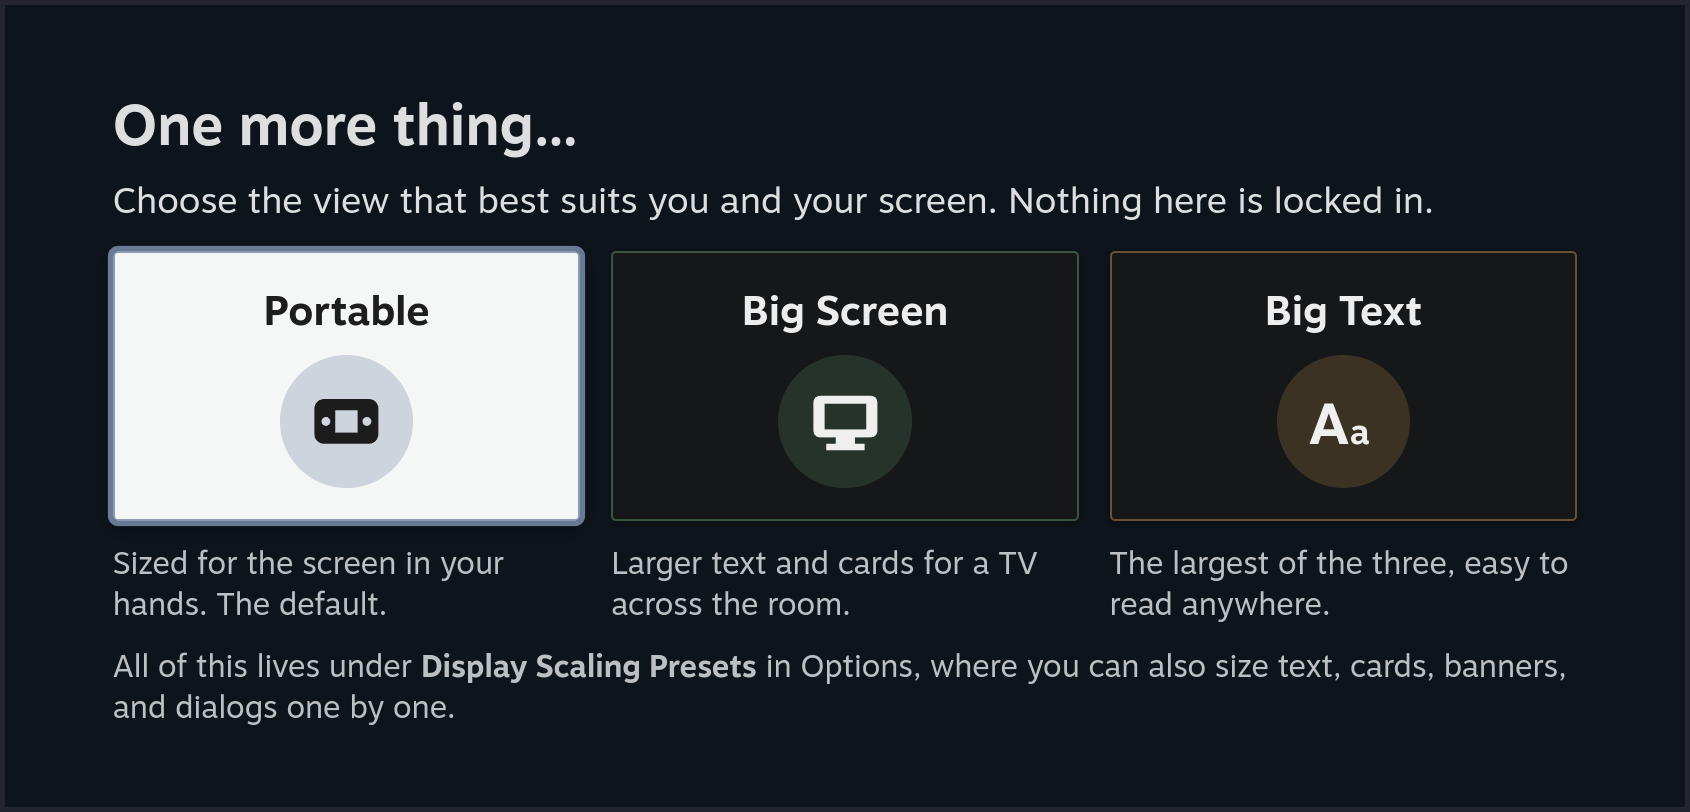
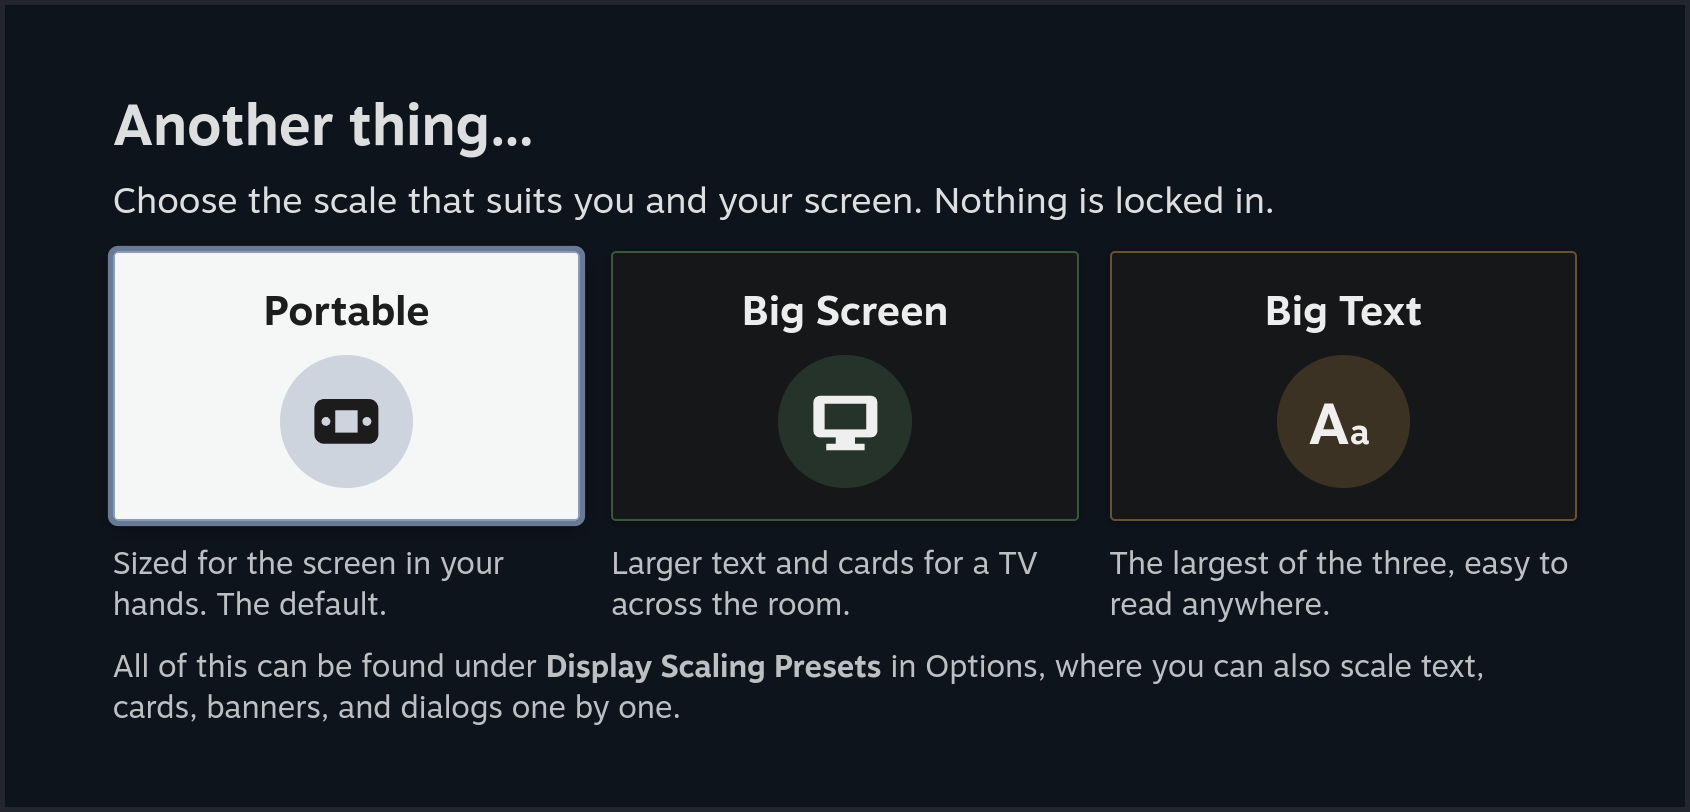
Docs: Add new modal step to getting started / update existing

Changed region(s): [[0.0615, 0.1232, 0.8308, 0.2771], [0.0615, 0.8005, 0.9231, 0.8929]]

diff --git a/README.md b/README.md
@@ -161,7 +161,11 @@ These are some of the larger modal dialogs within CheevoDeck: Large Guide Viewer
 
     Nothing here is locked in — you can later further tweak the UI and accessibility settings in the **Options** page.
 
-5. Congratulations! You are now done with the onboarding and can now begin hunting achievements! Here's how it works:
+5. Finally, you will be asked to pick the **Main Menu** layout, choosing between the **Default View** and **Compact View**. This isn't locked in and can be changed anytime in **Options**.
+
+    <a href="docs/images/getting-started-view-style.webp"><img src="docs/images/getting-started-view-style.webp" width="560" alt="Choosing a view style"></a>
+
+6. Congratulations! You are now done with the onboarding and can now begin hunting achievements! Here's how it works:
 
     1. Start up your RetroAchievements supported game in whichever emulator you choose. Ensure you are logged into your RetroAchievements account within the emulator or front-end first. Once your game is started, RA is notified of the current game you are playing.
 
